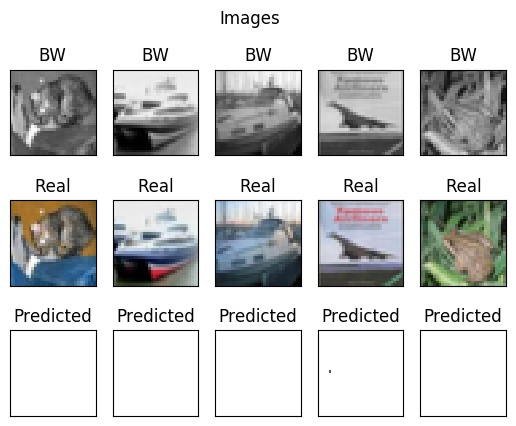
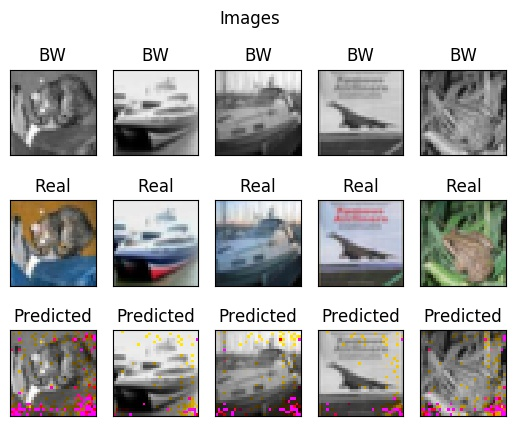
version we used for results

Changed region(s): [[0.6202, 0.7629, 0.9922, 0.9765], [0.2171, 0.7629, 0.5891, 0.9765], [0.0, 0.7629, 0.186, 0.9765]]

diff --git a/assignment_c.py b/assignment_c.py
@@ -1,3 +1,4 @@
+# -*- coding: utf-8 -*-
 from __future__ import absolute_import
 import matplotlib
 matplotlib.use('Agg')
@@ -25,7 +26,7 @@ parser = argparse.ArgumentParser(description='Colorizer')
 parser.add_argument('--mode', type=str, default='test', help='Can be "train" or "test"')
 parser.add_argument('--device', type=str, default='GPU:0' if gpu_available else 'CPU:0',
                     help='specific the device of computation eg. CPU:0, GPU:0, GPU:1, GPU:2, ... ')
-parser.add_argument('--batch-size', type=int, default=64,
+parser.add_argument('--batch-size', type=int, default=10,
                     help='Sizes of image batches fed through the network')
 parser.add_argument('--num-epochs', type=int, default=10,
                     help='Number of passes through the training data to make before stopping')
@@ -57,8 +58,8 @@ class Colorizer(tf.keras.Model):
 		self.optimizer = tf.keras.optimizers.Adam(learning_rate=self.learning_rate1)
 
 		# LAB Colorscheme constants
-		self.num_a_partitions = tf.constant(20, dtype=tf.float32)
-		self.num_b_partitions = tf.constant(20, dtype=tf.float32)
+		self.num_a_partitions = 20
+		self.num_b_partitions = 20
 		self.a_min = tf.constant(-86.185, dtype=tf.float32)
 		self.a_max = tf.constant(98.254, dtype=tf.float32)
 		self.b_min = tf.constant(-107.863, dtype=tf.float32)
@@ -242,7 +243,7 @@ class Colorizer(tf.keras.Model):
 					v_blank[x,i,j] = self.v(z[x,i,j,:])
 		return -tf.tensordot(tf.convert_to_tensor(v_blank, dtype=tf.float32), summation_1, axes=3)
 
-	@tf.function
+	#@tf.function
 	def init_bin_distribution(self, data):
 		"""
 		Initializes self.bin_distribution to be the distribution for all bins over every image in the training set
@@ -258,7 +259,7 @@ class Colorizer(tf.keras.Model):
 		self.bin_distribution += tf.reduce_sum(tf.reshape(bin_distributions, [batch_size, r_size, c_size, self.num_classes]), axis=(0, 1, 2))
 		print("Finished init_bin_distribution")
 
-	@tf.function
+	#@tf.function
 	def calculate_bin_distribution(self, labels):
 		"""
 		Converts the input image from a,b values to a bin distribution using calculate_bin_distribution_pixel
@@ -384,7 +385,7 @@ def train(model, train_inputs, train_labels):
 		inputs = train_inputs[min_index:max_index, :, :, :]
 		labels = train_labels[min_index:max_index]
 		with tf.GradientTape() as tape:
-			predictions = model.call(inputs)
+			predictions = model.call(tf.cast(inputs, tf.float32))
 			loss = model.loss(predictions, labels)
 		gradients = tape.gradient(loss, model.trainable_variables)
 		model.optimizer.apply_gradients(zip(gradients, model.trainable_variables))
@@ -466,6 +467,7 @@ def main():
 	test_inputs, all_test_channels = get_data('CIFAR_data_compressed/test')
 	print("Finished importing data")
 
+	visualizer_images = all_test_channels
 	training_labels = all_train_channels[:, :, :, 1:]
 	test_labels = all_test_channels[:, :, :, 1:]
 
@@ -476,14 +478,14 @@ def main():
 				# getting bin distribution
 				batch_start = 0
 				batch = 0
-				while (batch_start + args.batch_size) < len(training_inputs):
+				while (batch_start + 1) < 10:
 					batch += 1
-					batch_end = batch_start + args.batch_size
+					batch_end = batch_start + 1
 					if batch_end > len(training_inputs):
 						batch_end = len(training_inputs)
 					model.init_bin_distribution(training_labels[batch_start:batch_end, :, :, :])
-					print("Initializing Distribution Batch {}/{}".format(batch, len(training_inputs)/args.batch_size))
-					batch_start += args.batch_size
+					print("Initializing Distribution Batch {}/{}".format(batch, 10/args.batch_size))
+					batch_start += 1
 				model.init_w()
 				manager.save()
 				print("Saved Initializer")
@@ -499,7 +501,7 @@ def main():
 						loss = train(model, training_inputs[batch_start:batch_end, :, :, :], training_labels[batch_start:batch_end, :, :, :])
 						print("Epoch: {}/{} Batch: {}/{} Loss: {} Accuracy: {}".format(e + 1, args.num_epochs, batch, len(training_inputs)/args.batch_size, loss, model.accuracy(model.call(training_inputs[batch_start:batch_end, :, :, :]), training_labels[batch_start:batch_end, :, :, 1:3])))
 						batch_start += args.batch_size
-						if batch % 50 == 0:
+						if batch % 1 == 0:
 							manager.save()
 							print("Saved Batch!")
 			if args.mode == 'test':
@@ -520,7 +522,7 @@ def main():
 
 				predictions = model.call(test_inputs[0:5, :, :])
 
-				visualize_images(test_inputs[0:5, :, :], test_labels[0:5, :, :], predictions)
+				visualize_images(test_inputs[0:5, :, :], visualizer_images[0:5, :, :, :], tf.multiply(predictions, 10^1000000000000000))
 	except RuntimeError as e:
 		print(e)
 
